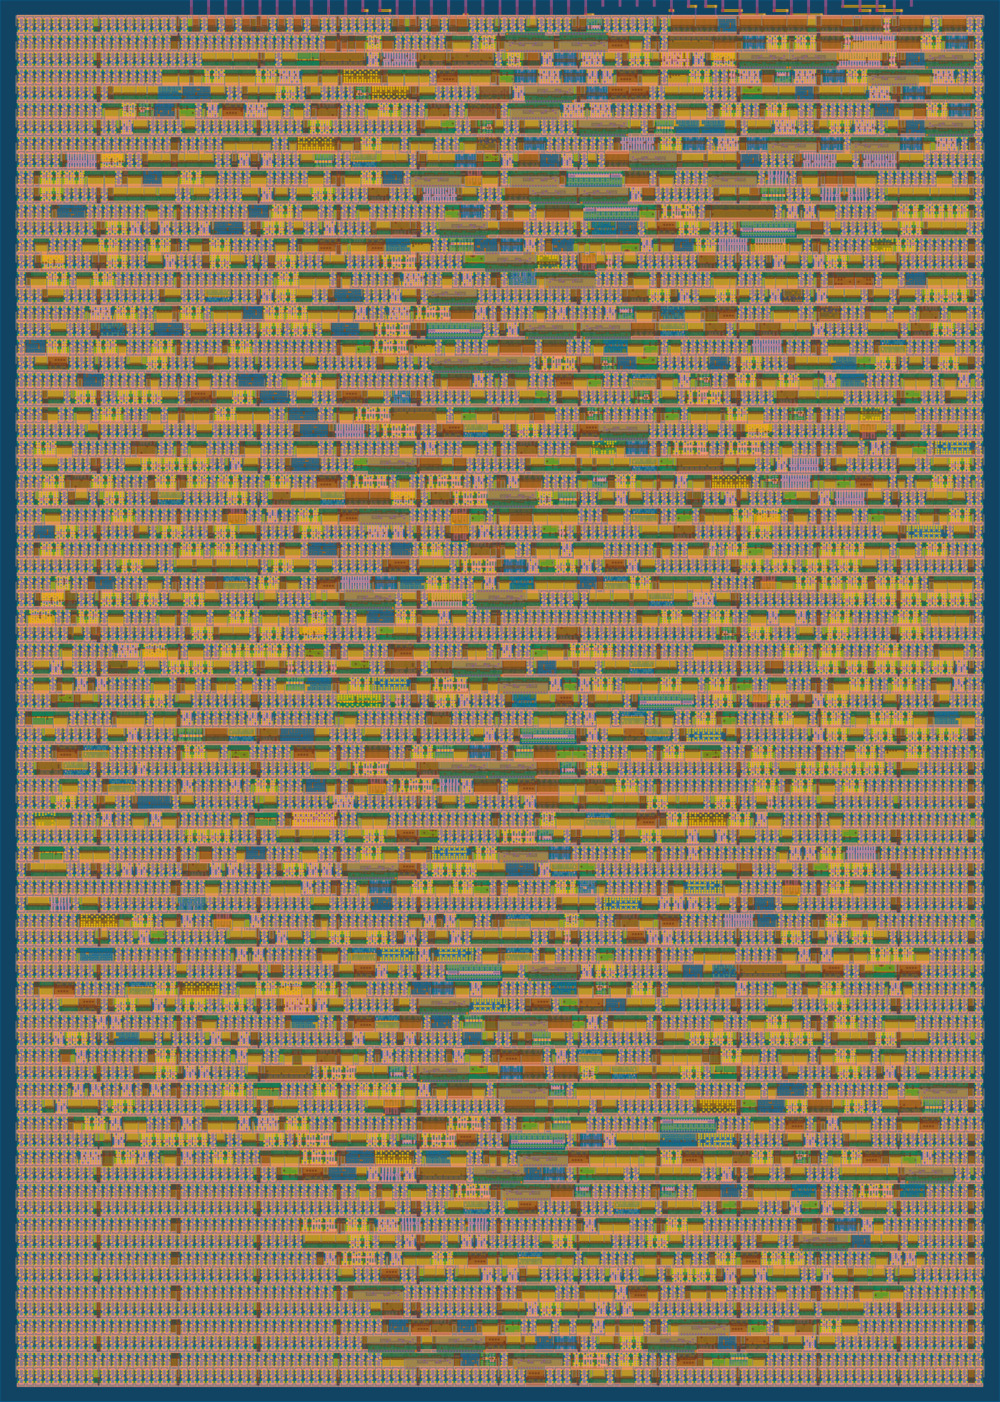
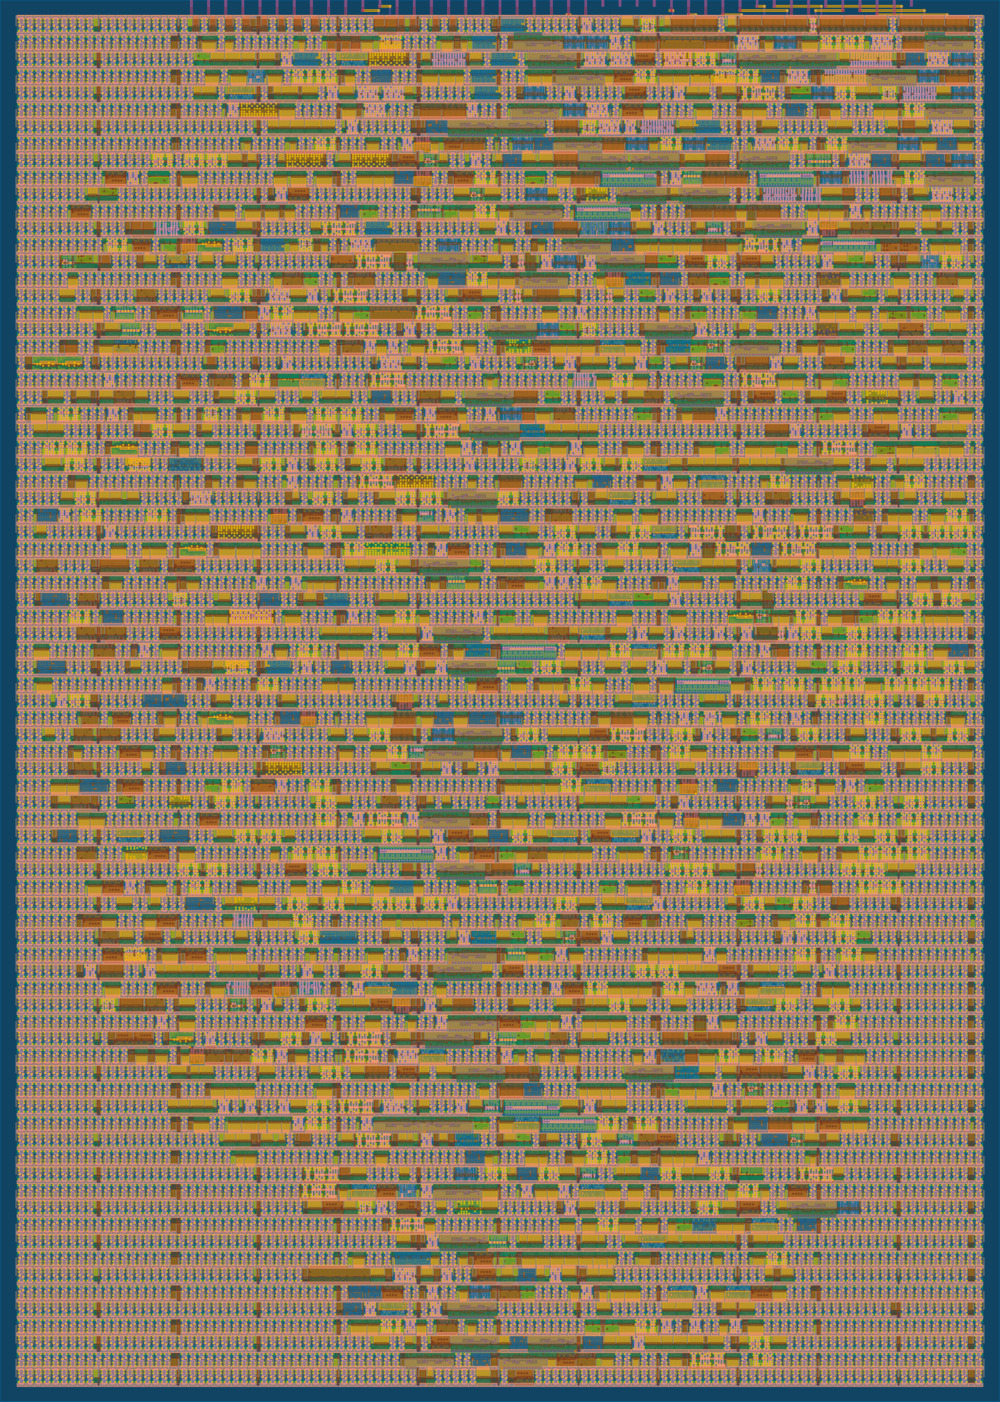
back out a previous "optimisation", now faster

diff --git a/README.md b/README.md
@@ -87,38 +87,29 @@ The `fmax.py` script will automatically produce reports for each "corner" and at
 ```
 | Utilisation (%) | Wire length (um) |
 |-------------|------------------|
-| 50.527 % | 41907 |
+| 46.766 % | 39625 |
 python ./fmax.py
-nom_tt_025C_1v80        8.3447 ns   85.80 MHz
-nom_ss_100C_1v60        1.5011 ns   54.06 MHz
-nom_ff_n40C_1v95       10.8875 ns  109.74 MHz
-min_tt_025C_1v80        8.4755 ns   86.77 MHz
-min_ss_100C_1v60        1.7148 ns   54.69 MHz
-min_ff_n40C_1v95       10.9775 ns  110.83 MHz
-max_tt_025C_1v80        8.1937 ns   84.70 MHz
-max_ss_100C_1v60        1.2841 ns   53.43 MHz
-max_ff_n40C_1v95       10.7783 ns  108.44 MHz
-fmax range: 53.43 – 110.83 MHz
+nom_tt_025C_1v80        8.5040 ns   86.99 MHz
+nom_ss_100C_1v60        2.0258 ns   55.64 MHz
+nom_ff_n40C_1v95       11.0136 ns  111.28 MHz
+min_tt_025C_1v80        8.6315 ns   87.96 MHz
+min_ss_100C_1v60        2.2470 ns   56.33 MHz
+min_ff_n40C_1v95       11.0983 ns  112.34 MHz
+max_tt_025C_1v80        8.3547 ns   85.87 MHz
+max_ss_100C_1v60        1.7771 ns   54.88 MHz
+max_ff_n40C_1v95       10.9086 ns  109.99 MHz
+fmax range: 54.88 – 112.34 MHz
 ```
 
-We can try to swap out the adder type from the default to `src/config.json`:
+We can try to swap out the `SYNTH_ADDER_TYPE` in `src/config.json`. Here are some numbers with various adder implementations
 
-```
-"SYNTH_ADDER_TYPE": "CSA",
-```
-
-Here are some numbers with various adder implementations (using an older version of the `msb` calculation which I later optimised)
-
-- `YOSYS` 38% utilisation, 36.20 – 86.36 MHz
-- `FA` 38% utilisation, 36.20 – 86.36 MHz
-- `RCA` violations, 42% utilisation, 16.53 – 50.08 MHz
-- `CSA` violations, 39% utilisation, 27.15 – 71.53 MHz
+- `FA` 47% utilisation, 54.88 – 112.34 MHz
+- `RCA` violations, 49% utilisation, 17.62 – 52.45 MHz
+- `CSA` 50% utilisation, 39.09 – 91.74 MHz
 
 But looking at our `docs/netlist.svg` we see that the majority of the time is take up by muxing.
 
-Either we could think up another way to do this that is more parallelisable, or we could look into pipelining by storing the full state into intermediate registers. This lets us run with a faster clock but means the operation takes more cycles; increasing throughput but having little or no impact on latency.
-
-However, since this project is designed to run on a 1MHz beneater style 8-bit computer, we choose to leave it as it is.
+However, since this project is designed to run on a 1MHz beneater style 8-bit computer, and tinytapeout is already limited to 50MHz I/O, we choose to leave it as it is.
 
 ### Future Work
 
